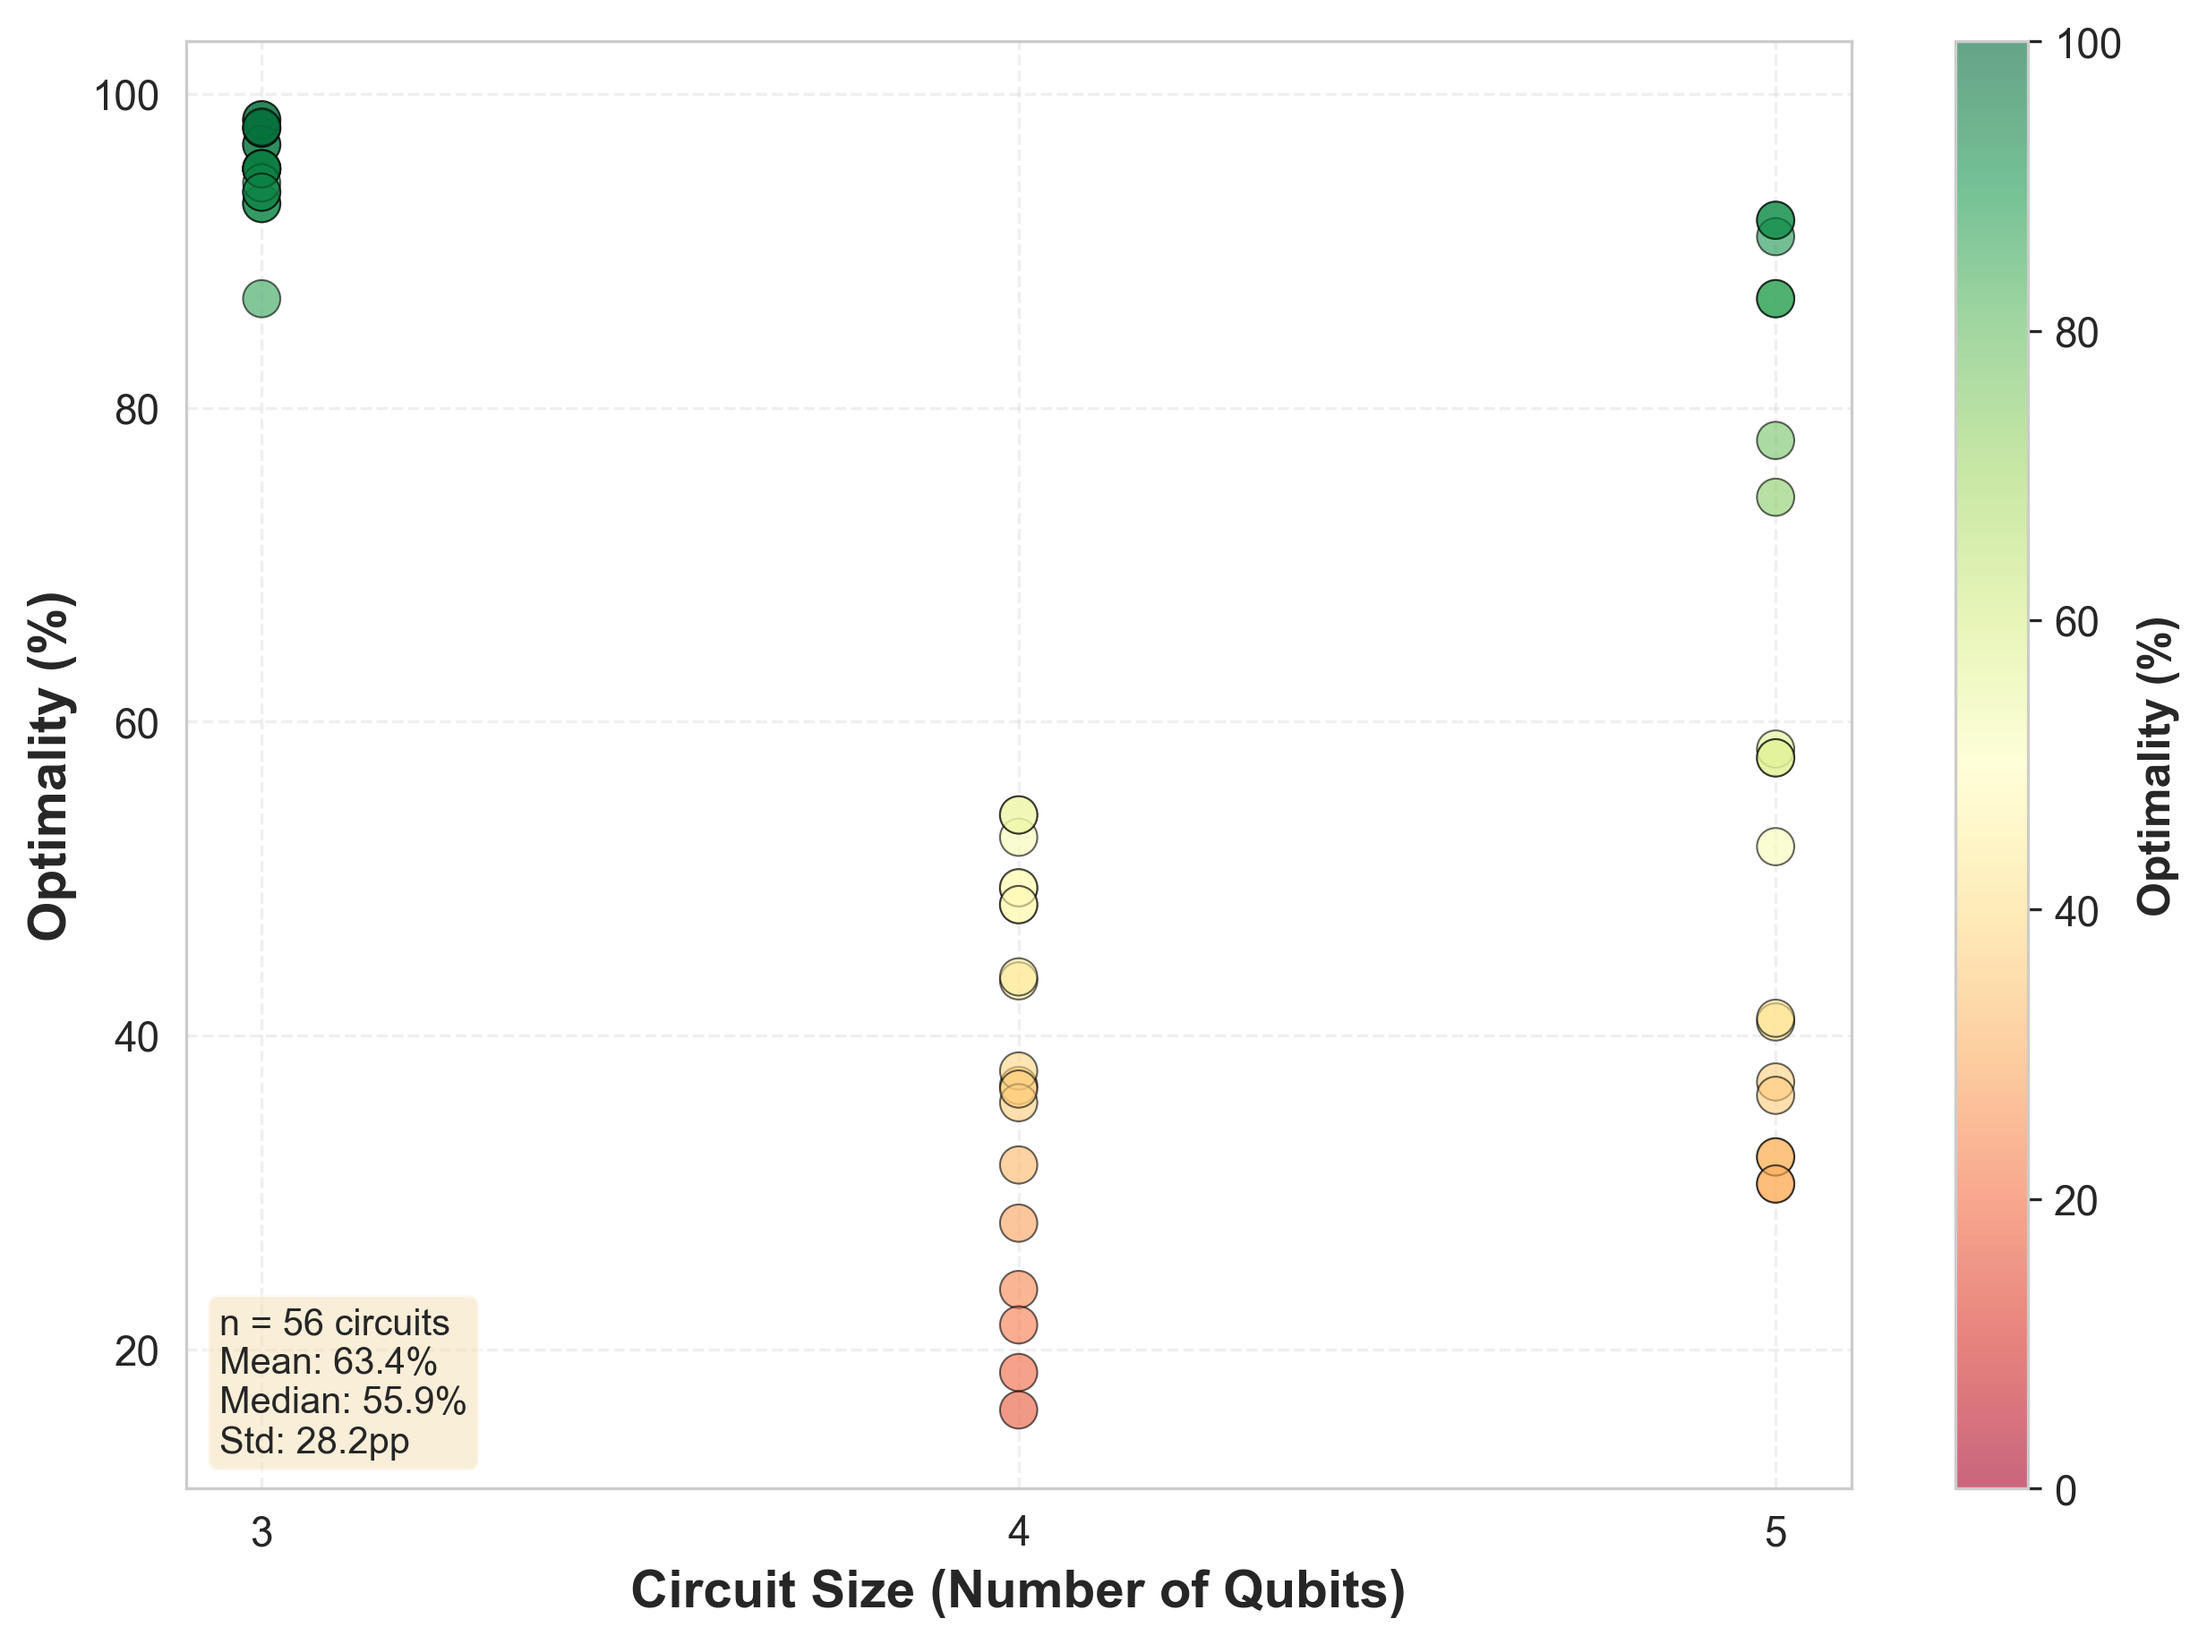
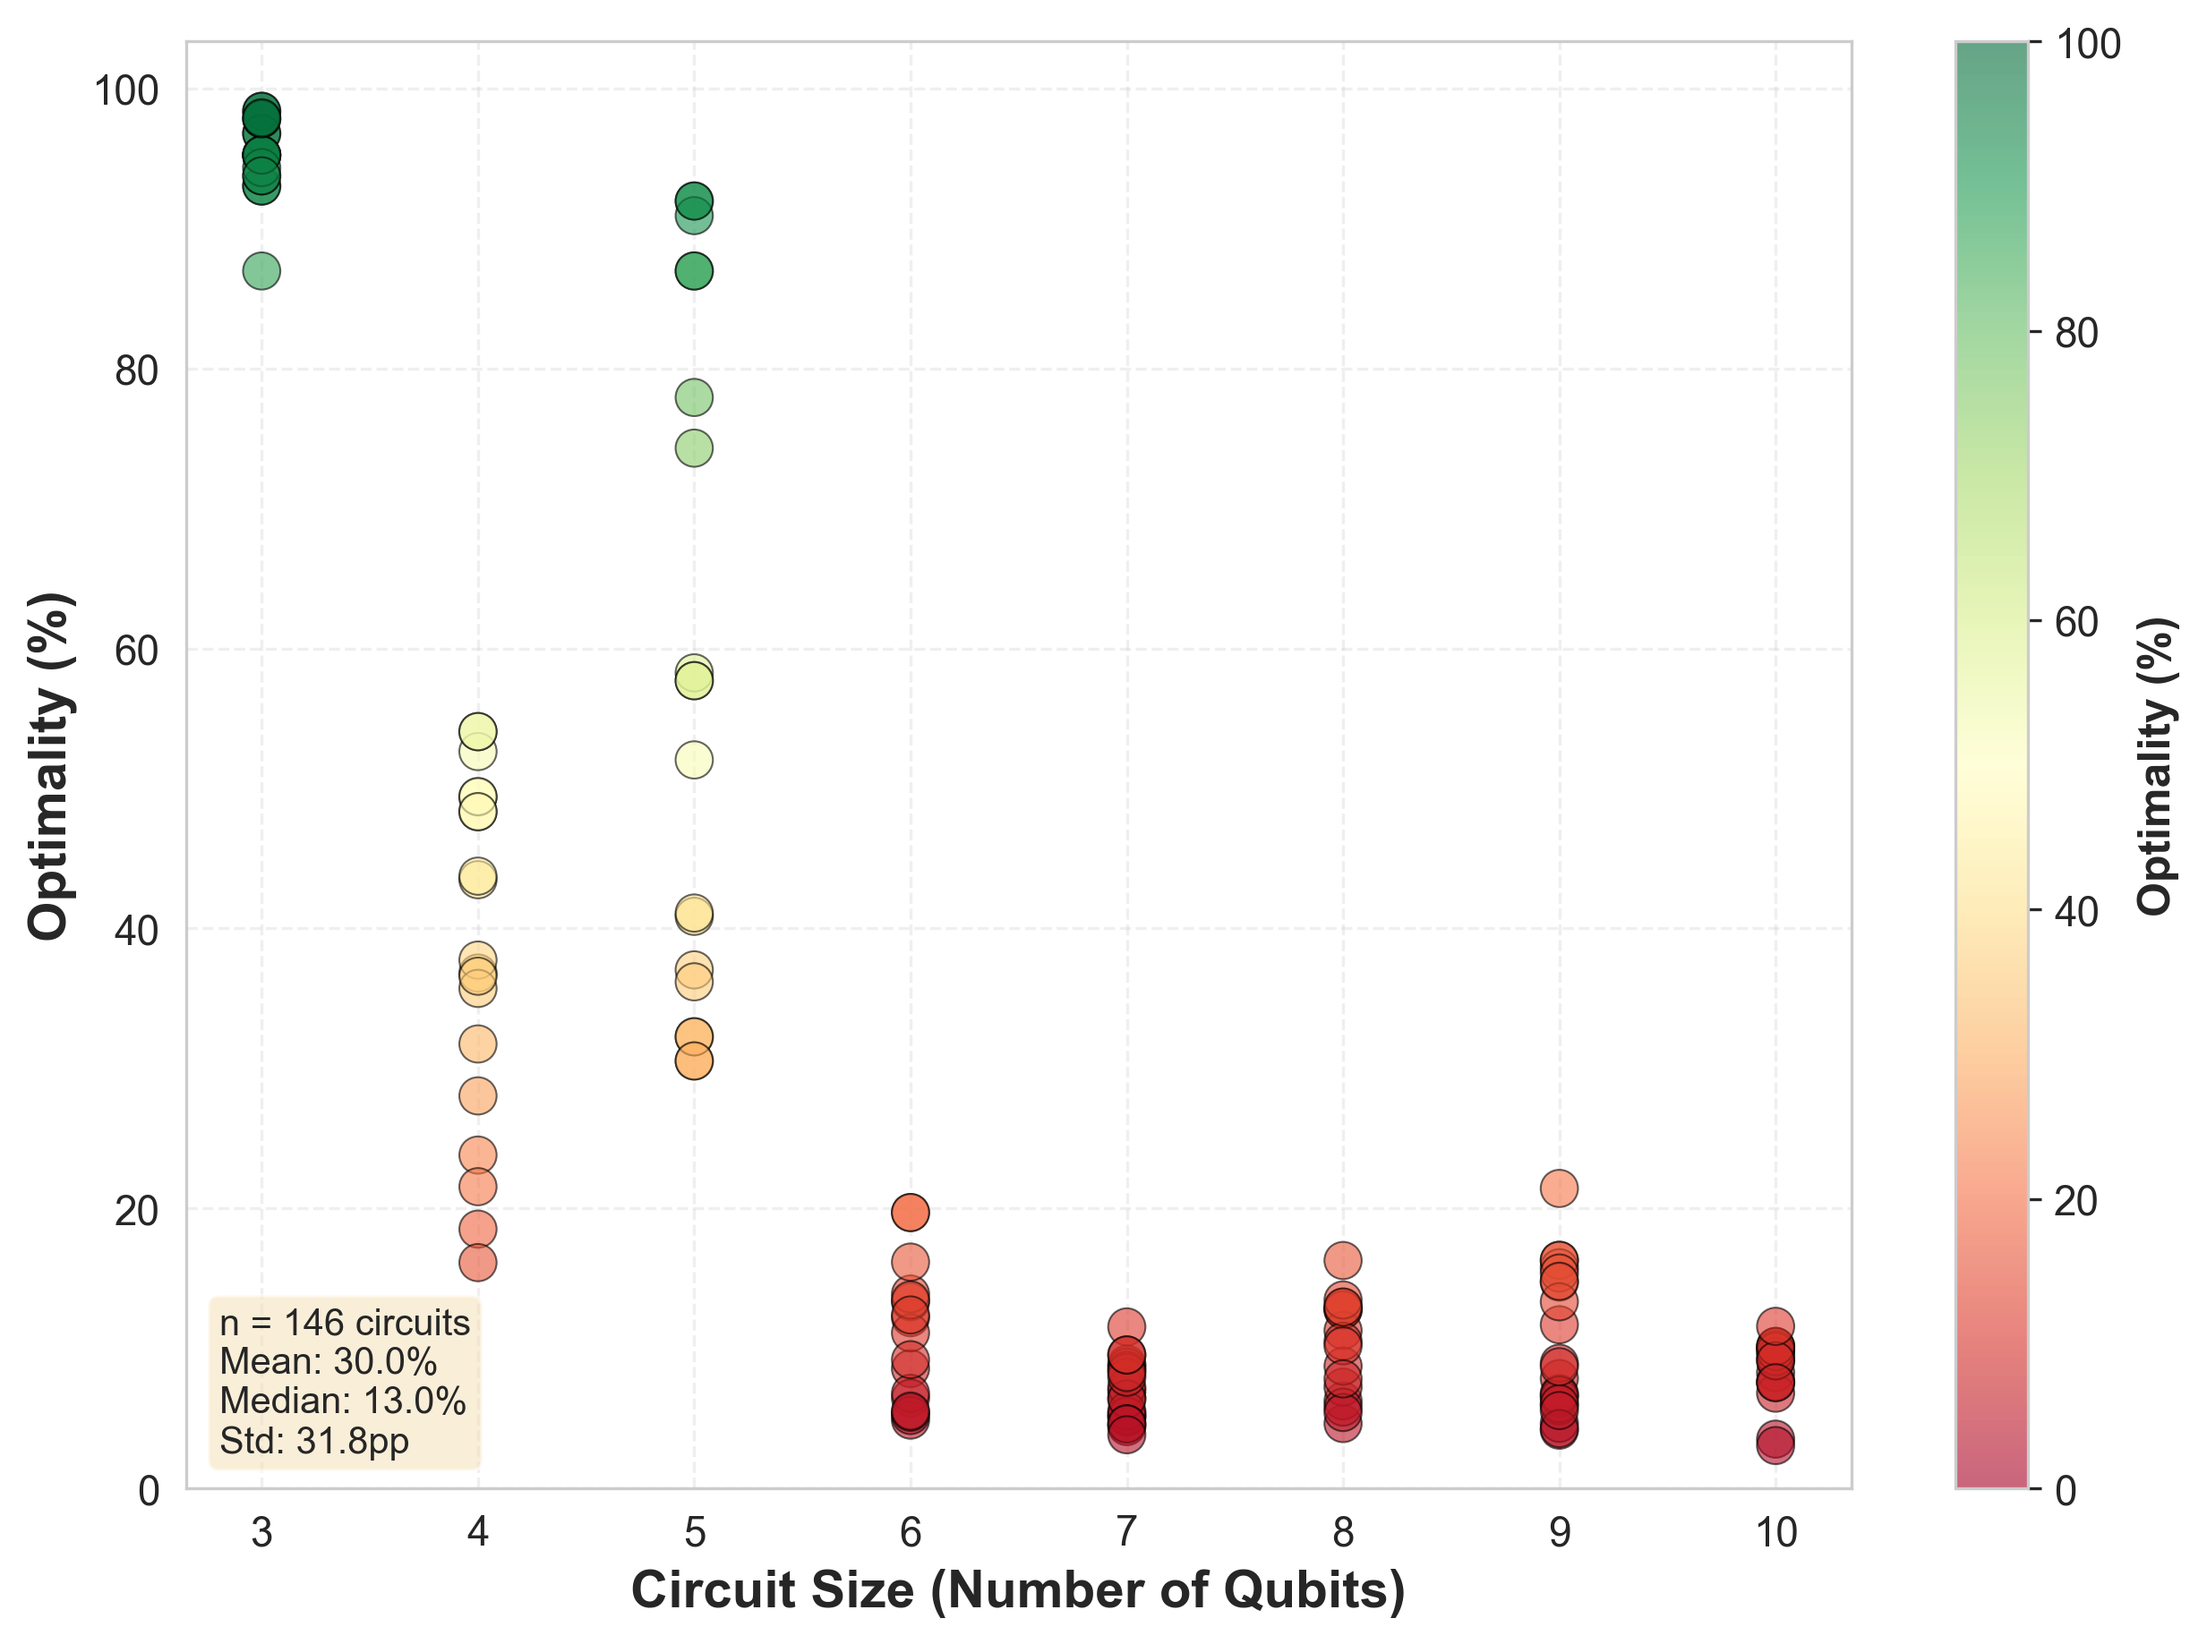
combined results update

diff --git a/hdh/hdh_bruteforce_plot.py b/hdh/hdh_bruteforce_plot.py
@@ -9,7 +9,7 @@ from collections import defaultdict
 import matplotlib.ticker as ticker
 
 # Configuration
-CSV_FILE = Path('experiment_outputs_mqtbench/comparison_results_10_qubit-level_weighted.csv')
+CSV_FILE = Path('experiment_outputs_mqtbench/results.csv') #/comparison_results_10_qubit-level_weighted.csv')
 OUTPUT_DIR = Path('experiment_outputs_mqtbench')
 OUTPUT_DIR.mkdir(parents=True, exist_ok=True)
 PLOT_FILE = OUTPUT_DIR / 'optimality_vs_overhead_k3.png'
